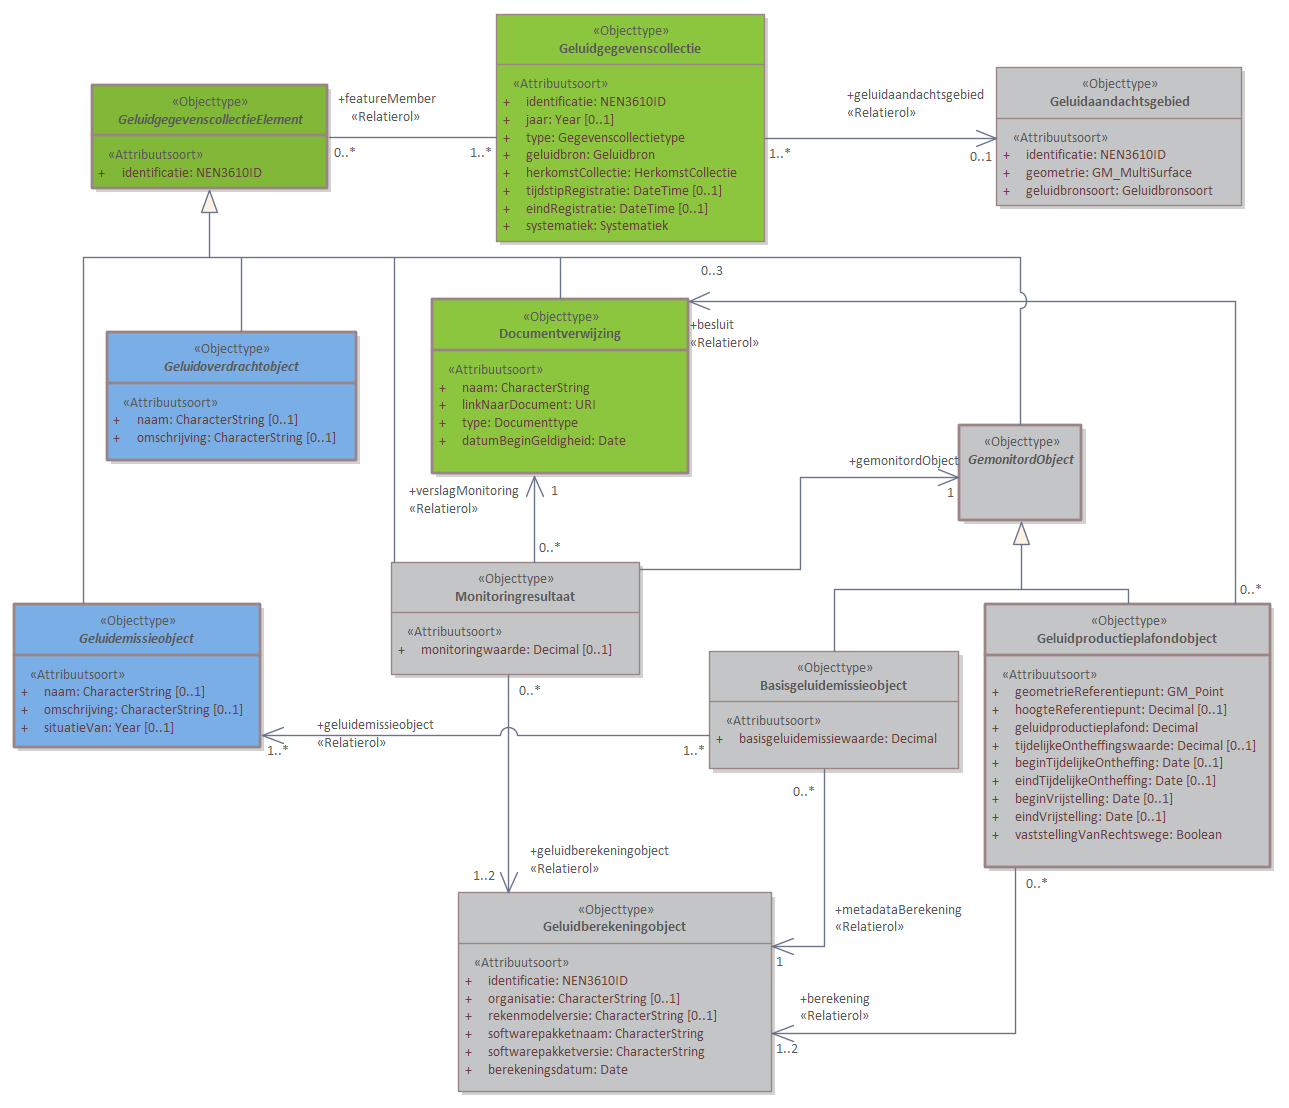
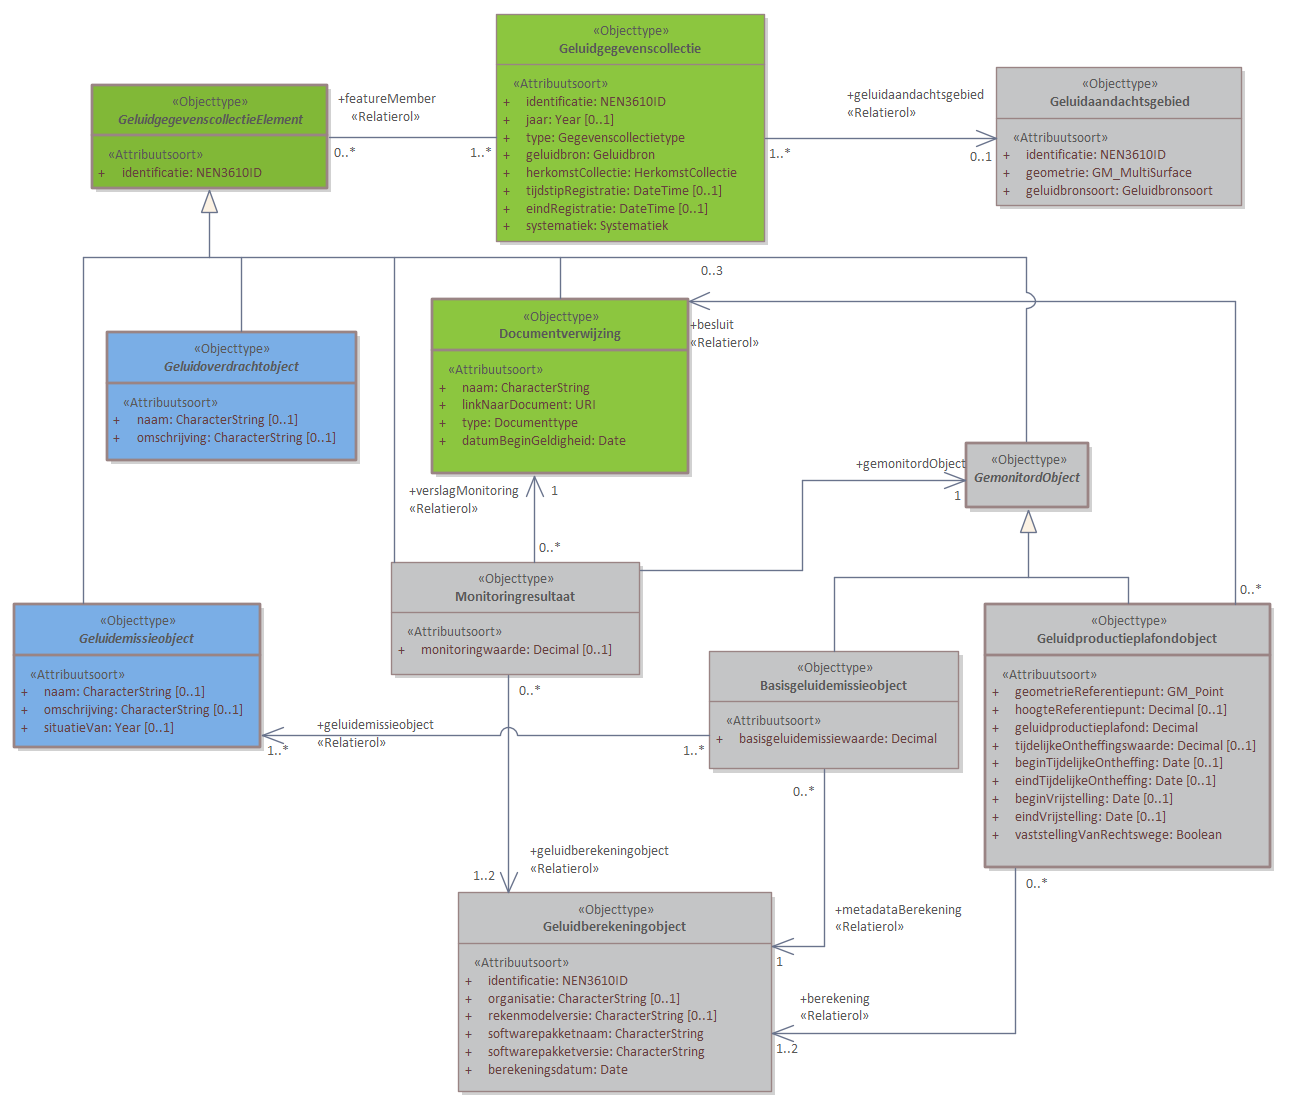
MIMLM-InformatiemodelGeluid-2.1-0-20221025-20230525-085249

Changed region(s): [[0.6206, 0.2455, 0.8689, 0.5523], [0.4965, 0.491, 0.6206, 0.5217]]

diff --git a/data/IMG-cat.respec.html b/data/IMG-cat.respec.html
@@ -1,10 +1,10 @@
 
 <!DOCTYPE HTML><section id="cat" class="normative">
    <h2>Gegevensdefinitie</h2>
-   <!--MIMLM-InformatiemodelGeluid-2.1-0-20221025-20230525-083446 imvertor 1.67.1-->
+   <!--MIMLM-InformatiemodelGeluid-2.1-0-20221025-20230525-085249 imvertor 1.67.1-->
    <section id="EAID_66AE8FA2_74FC_4d4d_B2B2_249C8D6A651F">
       <h3>   Basismodel - overzicht</h3>
-      <div class="imageinfo overview"><img src="data/Images/EAID_66AE8FA2_74FC_4d4d_B2B2_249C8D6A651F.png" usemap="#imagemap-EAID_66AE8FA2_74FC_4d4d_B2B2_249C8D6A651F" alt="Diagram &#xA;                        Het Basismodel vormt de samenhang tussen alle domeinen van het IMGeluid. Alle objecttypen en relaties uit het IMGeluid komen samen in een Geluidgegevenscollectie.&#xA;Binnen het IMGeluid worden geluidbrongegevens die gebruikt worden voor GPP en BGE berekeningen, gemodelleerd als een Geluidemissie of Geluidoverdrachtobject. De resultaten van GPP of BGE berekeningen worden opgeslagen in een Geluidgegevenscollectie. De onderliggende juridische vastleggingen, vaststellingen, of monitoringsverslagen van deze omgevings- of monitoringswaarden, worden ook opgeslagen in dezelfde Geluidgegevenscollectie.&#xA;Per geluidbron per toepassing kan er een Geluidgegevenscollectie bestaan. Deze kan geassocieerd worden met maximaal 1 Geluidaandachtsgebied. Wanneer geluidgegevens met betrekking tot cumulatieberekeningen worden aangeleverd, bevat een Geluidgegevenscollectie geen Geluidaandachtsgebied.&#xA;Klik met de rechtermuisknop op het diagram om de afbeelding op volledige grootte in een nieuw tabblad te openen.&#xA;                     "><map name="imagemap-EAID_66AE8FA2_74FC_4d4d_B2B2_249C8D6A651F"><area shape="rect" alt="GemonitordObject" coords="959,425,1082,521" href="#graph_EAID_5DD80772_ECDE_480d_9FC2_E806D8FD565E"><area shape="rect" alt="GeluidgegevenscollectieElement" coords="92,85,328,189" href="#graph_EAID_924BD078_D715_461a_B7E9_D7176A7406E0"><area shape="rect" alt="Monitoringresultaat" coords="391,562,640,675" href="#graph_EAID_BA00B77B_D408_4590_8185_CE59E5838F1E"><area shape="rect" alt="Basisgeluidemissieobject" coords="709,651,959,769" href="#graph_EAID_9AD15457_4880_42e5_8C72_4E5EFAC91B15"><area shape="rect" alt="Geluidproductieplafondobject" coords="985,604,1271,868" href="#graph_EAID_237408F8_8CE9_4828_B8FB_1A5B8C917622"><area shape="rect" alt="Geluidberekeningobject" coords="458,892,772,1092" href="#graph_EAID_97ED59FE_9FCA_49a6_8F07_214E48000B76"><area shape="rect" alt="Documentverwijzing" coords="432,299,689,474" href="#graph_EAID_7E137496_1028_4af5_9367_569358A2167B"><area shape="rect" alt="Geluidaandachtsgebied" coords="996,67,1242,206" href="#graph_EAID_B06128AC_518C_4e26_88E5_14ED5A050A19"><area shape="rect" alt="Geluidgegevenscollectie" coords="496,14,765,242" href="#graph_EAID_313C5AF9_49B8_4860_9E65_DE7C70084864"><area shape="rect" alt="Geluidemissieobject" coords="14,604,261,748" href="#graph_EAID_361C96BA_A638_494e_80BA_590ED481A81B"><area shape="rect" alt="Geluidoverdrachtobject" coords="107,332,357,461" href="#graph_EAID_2FEA326B_B7E7_48a4_B50F_00CCB2694677"></map><p><b>Basismodel - overzicht</b>
+      <div class="imageinfo overview"><img src="data/Images/EAID_66AE8FA2_74FC_4d4d_B2B2_249C8D6A651F.png" usemap="#imagemap-EAID_66AE8FA2_74FC_4d4d_B2B2_249C8D6A651F" alt="Diagram &#xA;                        Het Basismodel vormt de samenhang tussen alle domeinen van het IMGeluid. Alle objecttypen en relaties uit het IMGeluid komen samen in een Geluidgegevenscollectie.&#xA;Binnen het IMGeluid worden geluidbrongegevens die gebruikt worden voor GPP en BGE berekeningen, gemodelleerd als een Geluidemissie of Geluidoverdrachtobject. De resultaten van GPP of BGE berekeningen worden opgeslagen in een Geluidgegevenscollectie. De onderliggende juridische vastleggingen, vaststellingen, of monitoringsverslagen van deze omgevings- of monitoringswaarden, worden ook opgeslagen in dezelfde Geluidgegevenscollectie.&#xA;Per geluidbron per toepassing kan er een Geluidgegevenscollectie bestaan. Deze kan geassocieerd worden met maximaal 1 Geluidaandachtsgebied. Wanneer geluidgegevens met betrekking tot cumulatieberekeningen worden aangeleverd, bevat een Geluidgegevenscollectie geen Geluidaandachtsgebied.&#xA;Klik met de rechtermuisknop op het diagram om de afbeelding op volledige grootte in een nieuw tabblad te openen.&#xA;                     "><map name="imagemap-EAID_66AE8FA2_74FC_4d4d_B2B2_249C8D6A651F"><area shape="rect" alt="GemonitordObject" coords="966,443,1089,508" href="#graph_EAID_5DD80772_ECDE_480d_9FC2_E806D8FD565E"><area shape="rect" alt="GeluidgegevenscollectieElement" coords="92,85,328,189" href="#graph_EAID_924BD078_D715_461a_B7E9_D7176A7406E0"><area shape="rect" alt="Monitoringresultaat" coords="391,562,640,675" href="#graph_EAID_BA00B77B_D408_4590_8185_CE59E5838F1E"><area shape="rect" alt="Basisgeluidemissieobject" coords="709,651,959,769" href="#graph_EAID_9AD15457_4880_42e5_8C72_4E5EFAC91B15"><area shape="rect" alt="Geluidproductieplafondobject" coords="985,604,1271,868" href="#graph_EAID_237408F8_8CE9_4828_B8FB_1A5B8C917622"><area shape="rect" alt="Geluidberekeningobject" coords="458,892,772,1092" href="#graph_EAID_97ED59FE_9FCA_49a6_8F07_214E48000B76"><area shape="rect" alt="Documentverwijzing" coords="432,299,689,474" href="#graph_EAID_7E137496_1028_4af5_9367_569358A2167B"><area shape="rect" alt="Geluidaandachtsgebied" coords="996,67,1242,206" href="#graph_EAID_B06128AC_518C_4e26_88E5_14ED5A050A19"><area shape="rect" alt="Geluidgegevenscollectie" coords="496,14,765,242" href="#graph_EAID_313C5AF9_49B8_4860_9E65_DE7C70084864"><area shape="rect" alt="Geluidemissieobject" coords="14,604,261,748" href="#graph_EAID_361C96BA_A638_494e_80BA_590ED481A81B"><area shape="rect" alt="Geluidoverdrachtobject" coords="107,332,357,461" href="#graph_EAID_2FEA326B_B7E7_48a4_B50F_00CCB2694677"></map><p><b>Basismodel - overzicht</b>
             
             <p>Het Basismodel vormt de samenhang tussen alle domeinen van het IMGeluid. Alle objecttypen
                en relaties uit het IMGeluid komen samen in een Geluidgegevenscollectie.
@@ -26427,7 +26427,7 @@
 </section>
 <section id="lis" class="normative">
    <h2>Inhoud van waardenlijsten</h2>
-   <!--MIMLM-InformatiemodelGeluid-2.1-0-20221025-20230525-083446 imvertor 1.67.1--><a class="anchor" id="graph_EAID_C9ACE184_6E2B_40c1_ACE0_A7C5EE554EF9"></a><a class="anchor" id="detail_class_IMGeluidAlgemeen_Schermtype"></a><section id="detail_class_IMGeluidAlgemeen_Schermtype">
+   <!--MIMLM-InformatiemodelGeluid-2.1-0-20221025-20230525-085249 imvertor 1.67.1--><a class="anchor" id="graph_EAID_C9ACE184_6E2B_40c1_ACE0_A7C5EE554EF9"></a><a class="anchor" id="detail_class_IMGeluidAlgemeen_Schermtype"></a><section id="detail_class_IMGeluidAlgemeen_Schermtype">
       <h3>Enumeratie details  Schermtype</h3>
       
       <table style="width: 100%;" class="list">
